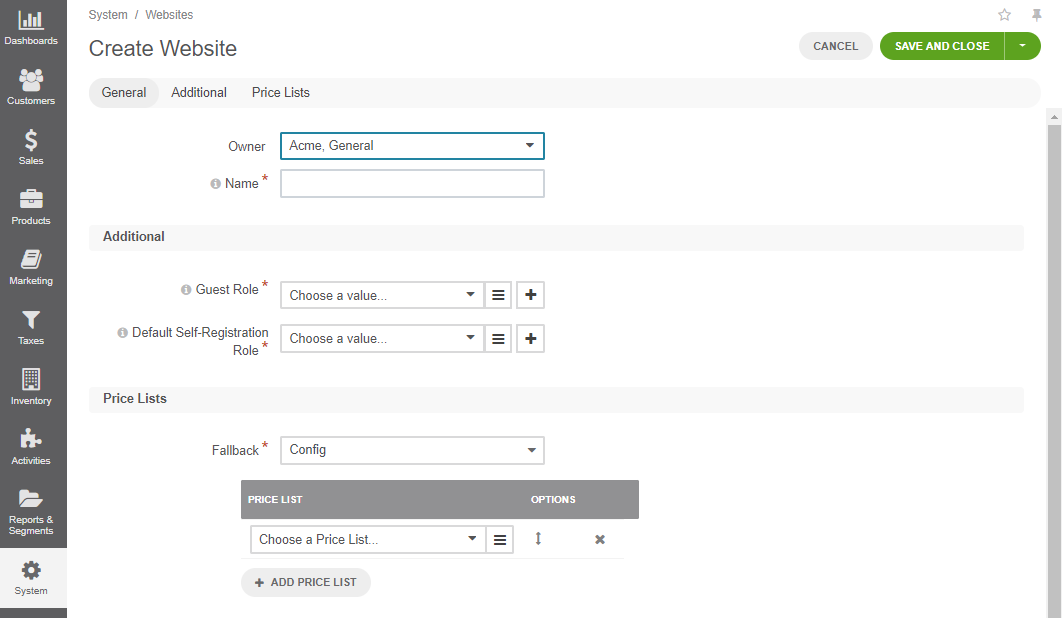
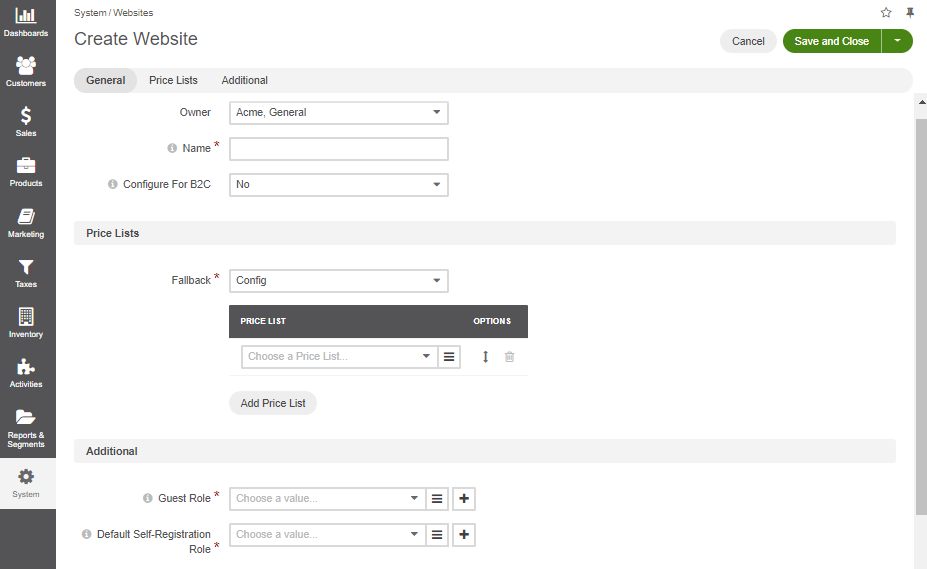
DOC-1527: B2C Websites (#26798)

diff --git a/user/back-office/system/websites/create.rst b/user/back-office/system/websites/create.rst
@@ -1,3 +1,5 @@
+.. _system-websites-create:
+
 :oro_documentation_types: OroCommerce
 
 Create a Website
@@ -13,31 +15,38 @@ To create a new website in OroCommerce:
    .. image:: /user/img/system/websites/create_website_page.png
       :alt: The create website page
 
+
 3. In the **General** section, provide the following information:
 
    * **Owner** --- the field is prepopulated with the organization to which the user who creating a website belongs. You can change this value, if necessary.
    * **Name** --- the website name.
+   * **Configure For B2C** --- if set to *Yes*, some website configuration settings are modified to match the standard B2C setup. The changes affect the following options:
 
-4. In the **Additional** section, define the default customer user roles to be assigned to both guests and authenticated users.
+     .. image:: /user/img/system/websites/B2C_settings.png
+        :alt: The list of options that are modified for the B2C website
 
-   * **Guest Role** - select the :ref:`customer user role <user-guide--customers--customer-user-roles>` that will be applied to all guest visitors of the current website by default. A set of :ref:`permissions and access levels <user-guide-user-management-permissions-roles>` defined for the selected role affects the way guest users manage their data in the storefront.
+     You can always modify any of these options manually in the system configuration.
 
-   * **Default Self-Registration Role** - select the default :ref:`customer user role <user-guide--customers--customer-user-roles>` that will be applied to the users once they register an account on the website automatically. To enable this option, set the corresponding registration permission in the :ref:`website configuration <system--website--configuration--commerce--customers--customer-users>` under **Commerce > Customer > Customer Users**.
+     If set to *No*, the settings that you have configured for your website remain intact.
 
-5. In the **Price Lists** section, configure the following options:
+4. In the **Price Lists** section, configure the following options:
 
    * **Fallback** --- specify whether the website prices should reuse the global price list defined in the system configuration whenever the product price is not available in the price list specified for the website.
 
    * **Price Lists** --- select the price list to use for this website. You may add multiple price lists using the **+ Add Price List** option and specify the priority that controls the way the price is looked up.
-
-   .. image:: /user/img/system/websites/website_pricelists.png
-      :alt: Select the price list to use for the current website
 
    Priority defines the order in which OroCommerce walks through the price lists to find a product price. Whenever the price is not found in the higher priority price list, OroCommerce switches to the next one.
 
 .. To configure flexible price options, set **Merge** flags for the price lists you would like to combine to cover the most product units. The unit price from the lower priority price list is used when it is missing in the higher priority price list. This mechanism applies only to the price lists where the *merge* is enabled.
 
    .. note:: Price list configuration on the customer or customer group level may override the website configuration.
+
+
+5. In the **Additional** section, define the default customer user roles to be assigned to both guests and authenticated users.
+
+   * **Guest Role** - select the :ref:`customer user role <user-guide--customers--customer-user-roles>` that will be applied to all guest visitors of the current website by default. A set of :ref:`permissions and access levels <user-guide-user-management-permissions-roles>` defined for the selected role affects the way guest users manage their data in the storefront.
+
+   * **Default Self-Registration Role** - select the default :ref:`customer user role <user-guide--customers--customer-user-roles>` that will be applied to the users once they register an account on the website automatically. To enable this option, set the corresponding registration permission in the :ref:`website configuration <system--website--configuration--commerce--customers--customer-users>` under **Commerce > Customer > Customer Users**.
 
 6. Click **Save and Close**.
 

diff --git a/user/back-office/system/websites/manage.rst b/user/back-office/system/websites/manage.rst
@@ -10,6 +10,7 @@ With OroCommerce, you can determine the way a particular website is operated by 
 Once a website is created and properly configured, you can now:
 
 * set the website as default
+* configure the website settings for the B2C market sector
 * customize the website storefront navigation and menus
 * add variable web catalog pages for different websites
 * limit price lists and content blocks to particular websites
@@ -40,6 +41,31 @@ Now the website is marked as default and will be used for the anonymous access.
 .. image:: /user/img/system/websites/default_australia_website.png
    :alt: Mark Australia website as the default one
 
+Configure a Website for B2C
+---------------------------
+
+OroCommerce enables you to customize the application for the B2C business type, modifying the default configuration to match the typical B2C setup. You can then change these settings manually in the system configuration, if necessary.
+
+A B2C website can be configured in two ways, either :ref:`during creation <system-websites-create>` or from the website's view page.
+
+1. Navigate to **System > Websites** using the main menu.
+2. Click the website you would like to configure for B2C (e.g., Australia).
+
+   .. image:: /user/img/system/websites/view_website_australia_B2C.png
+      :alt: View the details of Australia website
+
+3. On the website details page, click |IcB2C| **Configure for B2C**.
+
+4. The popup confirmation dialog displays the list of options that will be modified by this configuration.
+
+   .. image:: /user/img/system/websites/B2C_settings2.png
+      :alt: The list of options that are modified for the B2C website
+
+5. Click **Yes** to confirm.
+
+6. The changes apply automatically. You can view them in the system configuration and update if required.
+
+
 Edit a Storefront Menu
 ----------------------
 
@@ -51,7 +77,7 @@ To customize a storefront menu for the website:
 
 2. Click the website you would like to edit a menu for (e.g., Australia).
 
-   .. image:: /user/img/system/websites/view_website_australia.png
+   .. image:: /user/img/system/websites/view_website_australia1.png
       :alt: View the details of Australia website
 
 3. On the website details page, click |IcConfig| **Edit Frontend Menu**.

diff --git a/user/back-office/system/websites/index.rst b/user/back-office/system/websites/index.rst
@@ -6,7 +6,7 @@
 Websites
 ========
 
-You can create multiple :term:`websites <Website>` that target a particular audience, geography, a specific brand, and a segment of goods or services that your company is providing.
+You can create multiple B2B and B2C :term:`websites <Website>` that target a particular audience, geography, a specific brand, and a segment of goods or services that your company is providing.
 
 .. note:: The multiple websites management is only available in the Enterprise edition.
 

diff --git a/user/back-office/marketing/landing-pages/index.rst b/user/back-office/marketing/landing-pages/index.rst
@@ -144,6 +144,8 @@ To create a draft of the required landing page:
    .. image:: /user/img/marketing/landing_pages/all_drafts.png
       :alt: The list of all drafts for the Contact Us landing page
 
+|
+
 6. To publish the draft, click |IcPublish| **Publish draft** on the top right of the draft's details page. Once the action is confirmed, the draft is published, substituting the original landing page. All the drafts previously created for this landing page are then deleted.
 
 

diff --git a/include/include-images.rst b/include/include-images.rst
@@ -565,3 +565,7 @@ Images
 .. |IcPublish| raw:: html
 
    <i class="fas fa-share-square" aria-hidden="true"></i>
+
+.. |IcB2C| raw:: html
+
+   <i class="fas fa-shopping-bag" aria-hidden="true"></i>
